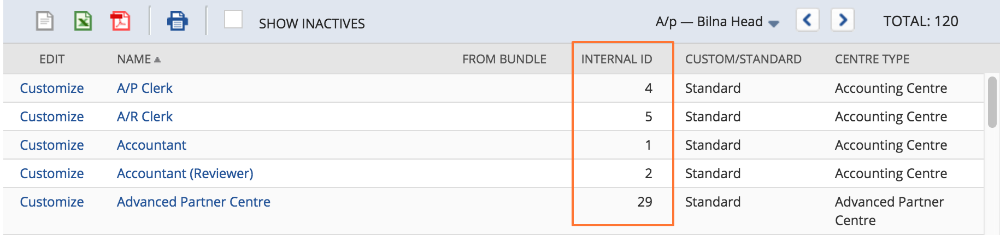
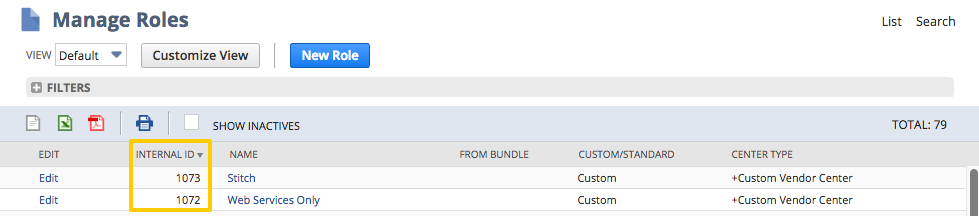
Update setup instructions

diff --git a/_saas-integrations/netsuite/netsuite-latest.md b/_saas-integrations/netsuite/netsuite-latest.md
@@ -45,64 +45,123 @@ whitelist:
 ## Info about permissions is kept in: _data/taps/extraction/netsuite/netsuite-permissions.yml
 
 requirements-list:
-  - item: "**Administrator permissions in NetSuite**. This is required to complete parts of the setup process."
-  - item: "**To enable Web Services for your NetSuite account.** This is necessary to access NetSuite's API."
+  - item: "**Administrator permissions in {{ integration.display_name }}**. This is required to complete the setup steps in {{ integration.display_name }}."
+  - item: "**To enable Web Services for your {{ integration.display_name }} account.** This is necessary to access {{ integration.display_name }}'s API."
 
 setup-steps:
-  - title: "Enable Web Services in Your NetSuite Account"
+  - title: "Enable Web Services in your {{ integration.display_name }} account"
     anchor: "enable-web-services"
     content: |
-      {% include note.html content="If Web Services is already enabled for your account, skip this step." %}
+      {% include note.html type="single-line" content="**Note:**This step is only required if Web Services isn't already enabled in your NetSuite account." %}
 
-      1. In your NetSuite account, click **Setup > Company > Enable Features**.
+      1. In your {{ integration.display_name }} account, click **Setup > Company > Enable Features**.
       2. Click the **SuiteCloud** subtab.
       3. Locate the **SuiteTalk (Web Services)** section.
       4. Check the **Web Services** box:
          ![The SuiteTalk (Web Services) section in NetSuite's SuiteCloud subtab.]({{ site.baseurl }}/images/integrations/netsuite-suitecloud-webservices.png)
       5. Scroll to the bottom of the page and click **Save**.
 
-  - title: "Create a Stitch NetSuite Admin User"
-    anchor: "create-netsuite-admin-user"
+
+  - title: "Create a Stitch {{ integration.display_name }} role"
+    anchor: "create-stitch-netsuite-role"
     content: |
-      To connect NetSuite to Stitch, we recommend that you create a Stitch-specific Admin user for us. We suggest this approach for a few reasons:
+      To connect {{ integration.display_name }} to Stitch, we recommend that you create a Stitch-specific role and user for us. We suggest this to ensure that:
 
-      1. This will ensure that Stitch is easily distinguishable in any logs or audits.
+      1. Stitch is easily distinguishable in any logs or audits.
 
-      2. NetSuite's API has some limitations that could make it difficult or impossible for Stitch to replicate data. For example: a single NetSuite user is only allowed to have **one** open API session at a time. If there's another connection elsewhere, Stitch will run into problems replicating data.
+      2. Stitch doesn't encounter issues with replication due to {{ integration.display_name }}'s API limitations. Currently, a single {{ integration.display_name }} user is allowed to only have a single open API session at a time. If the user connected to Stitch has another connection elsewhere, replication problems will arise.
 
-      After you've created the Admin user, move onto the next step.
+      3. Stitch can successfully authenticate to {{ integration.display_name }}. This will require creating a role that mirrors the standard {{ integration.display_name }} [Full Access Role](https://system.netsuite.com/app/help/helpcenter.nl?fid=section_N295396.html){:target="new"}.
 
-## Info about permissions is kept in: _data/taps/extraction/netsuite/netsuite-permissions.yml
+         **Note**: Using the Full Access role requires two-factor authentication, which Stitch's integration doesn't currently support. For this reason, **do not assign the actual Full Access role to the Stitch user.**
 
-  - title: "Retrieve the NetSuite User's Role ID"
-    anchor: "retrieve-netsuite-role-id"
+    substeps:
+      - title: "Create the new role"
+        anchor: "create-the-new-role"
+        content: |
+          {% capture two-factor-auth-roles %}
+          {{ integration.display_name }} enforces two-factor authentication for Full Access and Administrator roles as of {{ integration.display_name }} 2018.1.
+
+          Stitch's {{ integration.display_name }} integration can't authenticate using this method. Connection errors will arise if either the Full Access or Administrator role is assigned to the Stitch user.
+          {% endcapture %}
+
+          {% include important.html first-line="**Do not assign the Full Access or Administrator role to Stitch**" content=two-factor-auth-roles %}
+
+          To ensure Stitch can access and replicate all NetSuite objects supported for replication, you'll need to create a role to assign to the Stitch user.
+
+          1. In your {{ integration.display_name }} account, click **Setup > Users/Roles > Manage Roles > New**.
+          2. On the Role page, enter a name for the role in the **Name** field. For example: `Stitch`
+
+      - title: "Grant permissions to the role"
+        anchor: "grant-permissions-to-role"
+        content: |
+          Next, you'll grant permissions to the role. Below are instructions for adding permissions to the role, the permissions required, and where to find them in {{ integration.display_name }}.
+
+          In {{ integration.display_name }}, the Create Role **Permissions** section contains several subsections. In this guide is a tab that corresponds to the permissions you need to add in each {{ integration.display_name }} subsection. For example: In the **Permissions > Transactions** subsection, you'll add the permissions outlined in the **Transactions** tab of this guide.
+
+          {% capture adding-permission-instructions %}
+          **Refer to the other tabs in this section of the guide for the permissions you need to add**. 
+
+          To add a permission to the role:
+
+          1. In the **Permissions** section, click a subsection. For example: **Transactions**
+          2. Using the **Permission** dropdown, search for the permission you want to add.
+
+             For example: If adding permissions in the **Transactions** subtab of {{ integration.display_name }}, you'll use the checklist in the **Transactions** tab of this guide.
+          3. Using the **Level** dropdown, set the permission level to the corresponding level outlined in this guide:
+
+             ![The Transactions subsection in the Permissions section of the NetSuite Create Role page]({{ site.baseurl }}/images/integrations/netsuite-role-permissions-tab.png)
+          4. Click **Add**.
+          5. Repeat these steps until all permissions in the tabs of this guide have been added.
+          {% endcapture %}
+
+          {% include integrations/saas/netsuite-permission-list.html %}
+
+      - title: "Save the role and retrieve its internal ID"
+        anchor: "save-role-retrieve-id"
+        content: |
+          After you've finished granting permissions to the role, click **Save** to create the it.
+
+          Next, you'll retrieve the role's internal ID. Stitch requires this ID to successfully create your {{ integration.display_name }} integration.
+
+          If you've just saved the role, you should automatically be redirected to the **Manage Roles** page. If not, you can access this page by clicking **Setup > Users/Roles > Manage Roles**.
+
+          Locate the role you just created. The ID is located in a column called **Internal ID**:
+
+          ![The Internal ID column contains the user's Role ID.]({{ site.baseurl }}/images/integrations/netsuite-locate-role-id.png)
+
+          If you don't see the Internal ID column in the list, you may need to add it:
+
+          1. Click the **Edit View** button.
+          2. Click the drop-down menu and select **Internal ID**.
+          3. Click **Add**.
+          4. Click **Save**.
+
+          After you add the column to the Roles list, locate the ID for the role. Keep this handy - you'll need it to complete the setup in Stitch.
+        
+  - title: "Create the Stitch {{ integration.display_name }} user"
+    anchor: "create-stitch-netsuite-user"
     content: |
-      All Roles in NetSuite have a `Name` - for example, Accountant - and `Role ID`, or Internal ID number. Stitch requires this ID to successfully create a NetSuite integration.
+      Next, you'll create a dedicated {{ integration.display_name }} user for Stitch and assign the Stitch role to it.
 
-      Role IDs can be found on the **Manage Roles** page in NetSuite. From your dashboard, click **Setup > Users/Roles > Manage Roles*.
+      1. In your NetSuite account, click **Lists > Employees > Employees > New**.
+      2. In the Employee page, fill in the **Name** and **Email** fields.
+      3. Next, click the **Access** tab.
+      4. In the **Access** tab:
 
-      Locate the Role of the user in the Roles list. The ID is located in a column called **Internal ID**:
-
-      ![The Internal ID column contains the user's Role ID.]({{ site.baseurl }}/images/integrations/netsuite-locate-role-id.png)
-
-      If you don't see the Internal ID column in the list, you may need to add it:
-
-      1. Click the **Edit View** button.
-      2. Click the drop-down menu and select **Internal ID**.
-      3. Click **Add**.
-      4. Click **Save**.
-
-      After you add the column to the Roles list, locate the ID for the user and move onto the next step.
+         1. Create a password for the Stitch user. Enter it in the **Password** field, then again in the **Confirm Password** field.
+         2. In the **Roles** section, search the dropdown menu to locate the Stitch role you created in [Step 2](#create-stitch-netsuite-role).
+         3. Click **Add** once you've located the role.
+      5. When finished, click **Save**.
 
   - title: "add integration"
     content: |
-      4. Enter the email address and password associated with the Stitch NetSuite user.
-      5. Enter the **Role ID** - the numerical ID, not the name of the Role - associated with the user entered above. See [Step 3](#retrieve-netsuite-role-id) if you need help locating the user's Role ID.
-
-         **Note:** If this field is left blank, Stitch will use NetSuite's default role ID for Admin roles (`3`). If you receive an error when trying to save the integration, enter a `3` in this field and try saving again.
+      4. Enter the email address and password associated with the Stitch {{ integration.display_name }} user.
+      5. Enter the **Role ID** you retrieved in [Step 2.3](#save-role-retrieve-id). **Note**: This must be the numerical ID, not the name of the role. See [Step 2.3](#save-role-retrieve-id) if you need help locating the user's Role ID.
       6. Select the **Account Type** - Production or Sandbox.
   - title: "historical sync"
   - title: "replication frequency"
+  - title: "track data"
 
 # -------------------------- #
 #     Integration Tables     #
@@ -133,7 +192,7 @@ schema-sections:
           - **name** and **internalId**: The `internalId` of the record will display in **both** columns.
           - **customRecord**: This column will contain a `true` value.
 
-          For example: the first two records in this table are "normal" records, while the third is a custom record:
+          For example: The first two records in this table are "normal" records, while the third is a custom record:
 
           | type         | internalId | name             | customRecord | deletedDate                   |
           |--------------+------------+------------------+--------------+-------------------------------|
